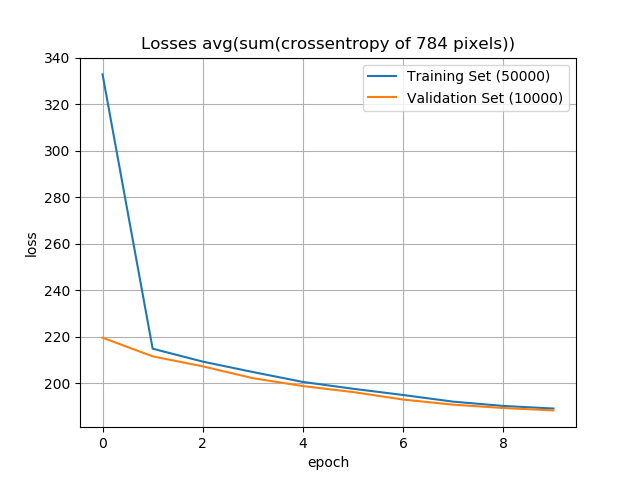
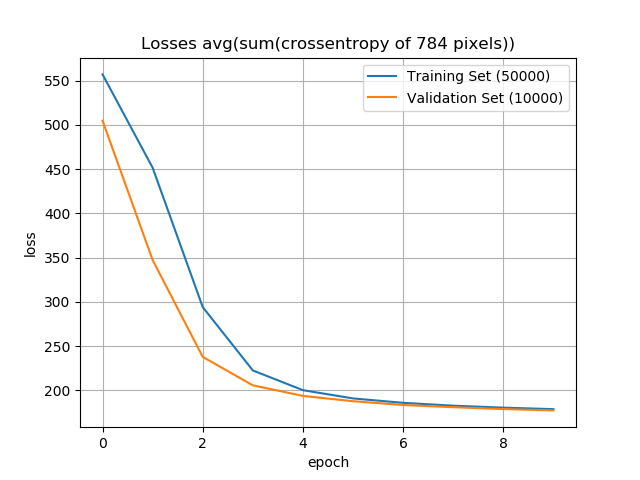
added batch norm

diff --git a/MNIST_VAE_noeager_conv/vae_util.py b/MNIST_VAE_noeager_conv/vae_util.py
@@ -41,14 +41,14 @@ def trainer(input_dim, num_samples, dataset, learning_rate=1e-3, batch_size=100,
     # testLoss.append(tloss)
 
     if epoch % 1 == 0:
-      print('[Epoch {} Time {}s] Loss: {}, Recon loss: {}, Latent loss: {}'.format(epoch, delta_time, loss, recon_loss, latent_loss))
+      print('[Epoch {} Time {}s] Loss: {}, Recon loss: {}, Latent loss: {}'.format(epoch, delta_time, totalLoss[-1], recon_loss, latent_loss))
   print('training losses: ', totalLoss)
   print('validation losses: ', validateLoss)
   print('testing losses: ', testLoss)
-  saver = tf.train.Saver()
-  save_path = saver.save(model.sess, "tmp/model.ckpt")
-  print('Model saved in path:', save_path)
-  print('Done!')
+  #saver = tf.train.Saver()
+  #save_path = saver.save(model.sess, "tmp/model.ckpt")
+  #print('Model saved in path:', save_path)
+  print('Done Training!')
   return model, totalLoss, validateLoss, testLoss
 
 
@@ -83,34 +83,27 @@ class VariantionalAutoencoder(object):
   # Build the netowrk and the loss functions
   def build(self):
     self.x = tf.placeholder(name='x', dtype=tf.float32, shape=[None, 784])
+    self.is_train = tf.placeholder(tf.bool, name="is_train");
     net = self.x
-    numFilters = 4
-    innerLayerSize = 20
+    print(net.get_shape()) # (?, 784)
+    outerLayerSize = 600
+    innerLayerSize = 400
 
     # Encode
     # x -> z_mean, z_sigma -> z
-    with tf.name_scope('enc_reshape1'):
-      net = tf.reshape(net, [-1, 28, 28, 1])
-      print(net.get_shape()) # (?, 28, 28, 32)
-    net = slim.conv2d(net, numFilters, [3, 3], scope='enc_conv1', activation_fn=tf.nn.elu)
-    net = slim.dropout(net, 0.75, scope='enc_dropout1')
-    print(net.get_shape()) # (?, 28, 28, 32)
-    net = slim.max_pool2d(net, [2, 2], scope='enc_pool1')
-    print(net.get_shape()) # (?, 14, 14, 32)
-    net = slim.conv2d(net, numFilters, [3, 3], scope='enc_conv2', activation_fn=tf.nn.elu)
-    net = slim.dropout(net, 0.75, scope='enc_dropout2')
-    print(net.get_shape()) # (?, 14, 14, 32)
-    net = slim.max_pool2d(net, [2, 2], scope='enc_pool2')
-    print(net.get_shape()) # (?, 7, 7, 32)
-    net = slim.flatten(net)
-    print(net.get_shape()) # (?, 1568)
-    net = slim.fully_connected(net, innerLayerSize, scope='enc_fc1', activation_fn=tf.nn.elu)
+    net = slim.fully_connected(net, outerLayerSize, scope='enc_fc1', activation_fn=tf.nn.elu)
     net = slim.dropout(net, 0.75, scope='enc_dropout3')
+    net = tf.layers.batch_normalization(net, training=self.is_train)
     print(net.get_shape()) # (?, 200)
 
-    self.z_mu = slim.fully_connected(net, self.n_z, scope='enc_fc2_mu', activation_fn=None)
+    net = slim.fully_connected(net, innerLayerSize, scope='enc_fc2', activation_fn=tf.nn.elu)
+    net = slim.dropout(net, 0.75, scope='enc_dropout4')
+    net = tf.layers.batch_normalization(net, training=self.is_train)
+    print(net.get_shape()) # (?, 200)
+
+    self.z_mu = slim.fully_connected(net, self.n_z, scope='enc_fc3_mu', activation_fn=None)
     print('z_mu shape: ', self.z_mu.get_shape()) # (?, 2)
-    self.z_log_sigma_sq = slim.fully_connected(net, self.n_z, scope='enc_fc2_sigma', activation_fn=None)
+    self.z_log_sigma_sq = slim.fully_connected(net, self.n_z, scope='enc_fc3_sigma', activation_fn=None)
     print('z_log_sigma_sq shape: ', self.z_log_sigma_sq.get_shape()) # (?, 2)
     with tf.name_scope('reparam_trick'):
       eps = tf.random_normal(shape=tf.shape(self.z_log_sigma_sq), mean=0, stddev=1, dtype=tf.float32)
@@ -123,29 +116,15 @@ class VariantionalAutoencoder(object):
     # z -> x_hat
     net = slim.fully_connected(net, innerLayerSize, scope='dec_fc1', activation_fn=tf.nn.elu)
     net = slim.dropout(net, 0.75, scope='dec_dropout1')
-    print(net.get_shape())
-    net = slim.fully_connected(net, 7*7*numFilters, scope='dec_fc2', activation_fn=tf.nn.elu)
-    net = slim.dropout(net, 0.75, scope='dec_dropout2')
-    print(net.get_shape())
-    with tf.name_scope('dec_reshape1'):
-      net = tf.reshape(net, [-1, 7, 7, numFilters], name='dec_reshape1')
-      print(net.get_shape())
-    with tf.name_scope('dec_upsample1'):
-      net = tf.image.resize_bilinear(net, size=[14, 14], align_corners=None)
-      print(net.get_shape())
-    net = slim.conv2d(net, numFilters, [3, 3], scope='dec_conv1', activation_fn=tf.nn.elu)
-    net = slim.dropout(net, 0.75, scope='dec_dropout3')
-    print(net.get_shape())
-    with tf.name_scope('dec_upsample2'):
-      net = tf.image.resize_bilinear(net, size=[28, 28], align_corners=None)
-      print(net.get_shape())
-    net = slim.conv2d(net, numFilters, [3, 3], scope='dec_conv2', activation_fn=tf.nn.elu)
-    net = slim.dropout(net, 0.75, scope='dec_dropout4')
-    print(net.get_shape())
-    net = slim.flatten(net)
+    net = tf.layers.batch_normalization(net, training=self.is_train)
     print(net.get_shape())
 
-    self.x_hat = slim.fully_connected(net, 784, scope='dec_fc3', activation_fn=tf.sigmoid)
+    net = slim.fully_connected(net, outerLayerSize, scope='dec_fc2', activation_fn=tf.nn.elu)
+    net = slim.dropout(net, 0.75, scope='dec_dropout2')
+    net = tf.layers.batch_normalization(net, training=self.is_train)
+    print(net.get_shape())
+
+    self.x_hat = slim.fully_connected(net, 784, scope='dec_fc3', activation_fn=tf.sigmoid) #tf.nn.elu
     print(self.x_hat.get_shape())
 
     # Loss
@@ -171,41 +150,43 @@ class VariantionalAutoencoder(object):
       self.total_loss = tf.reduce_mean(recon_loss + latent_loss)
 
     #with tf.name_scope('Trainer'):
-    self.train_op = tf.train.AdamOptimizer(learning_rate=self.learning_rate).minimize(self.total_loss)
+    update_ops = tf.get_collection(tf.GraphKeys.UPDATE_OPS)
+    with tf.control_dependencies(update_ops):
+      self.train_op = tf.train.AdamOptimizer(learning_rate=self.learning_rate).minimize(self.total_loss)
     return
 
   # Execute the forward and the backward pass
   def run_single_step(self, x):
     _, loss, recon_loss, latent_loss = self.sess.run(
       [self.train_op, self.total_loss, self.recon_loss, self.latent_loss],
-      feed_dict={self.x: x}
+      feed_dict={self.x: x, self.is_train: True}
     )
     return loss, recon_loss, latent_loss
 
   def compute_loss(self, x):
     loss, recon_loss, latent_loss = self.sess.run(
       [self.total_loss, self.recon_loss, self.latent_loss],
-      feed_dict={self.x: x}
+      feed_dict={self.x: x, self.is_train: False}
     )
     return loss, recon_loss, latent_loss
 
 
   # x -> x_hat
   def reconstructor(self, x):
-    x_hat = self.sess.run(self.x_hat, feed_dict={self.x: x})
+    x_hat = self.sess.run(self.x_hat, feed_dict={self.x: x, self.is_train: False})
     return x_hat
 
   # z -> x
   def generator(self, z):
-    x_hat = self.sess.run(self.x_hat, feed_dict={self.z: z})
+    x_hat = self.sess.run(self.x_hat, feed_dict={self.z: z, self.is_train: False})
     return x_hat
 
   # x -> z
   def transformerSample(self, x):
-    z = self.sess.run(self.z, feed_dict={self.x: x})
+    z = self.sess.run(self.z, feed_dict={self.x: x, self.is_train: False})
     return z
 
   # x -> z_mu
   def transformer2(self, x):
-    z_mu = self.sess.run(self.z_mu, feed_dict={self.x: x})
+    z_mu = self.sess.run(self.z_mu, feed_dict={self.x: x, self.is_train: False})
     return z_mu
